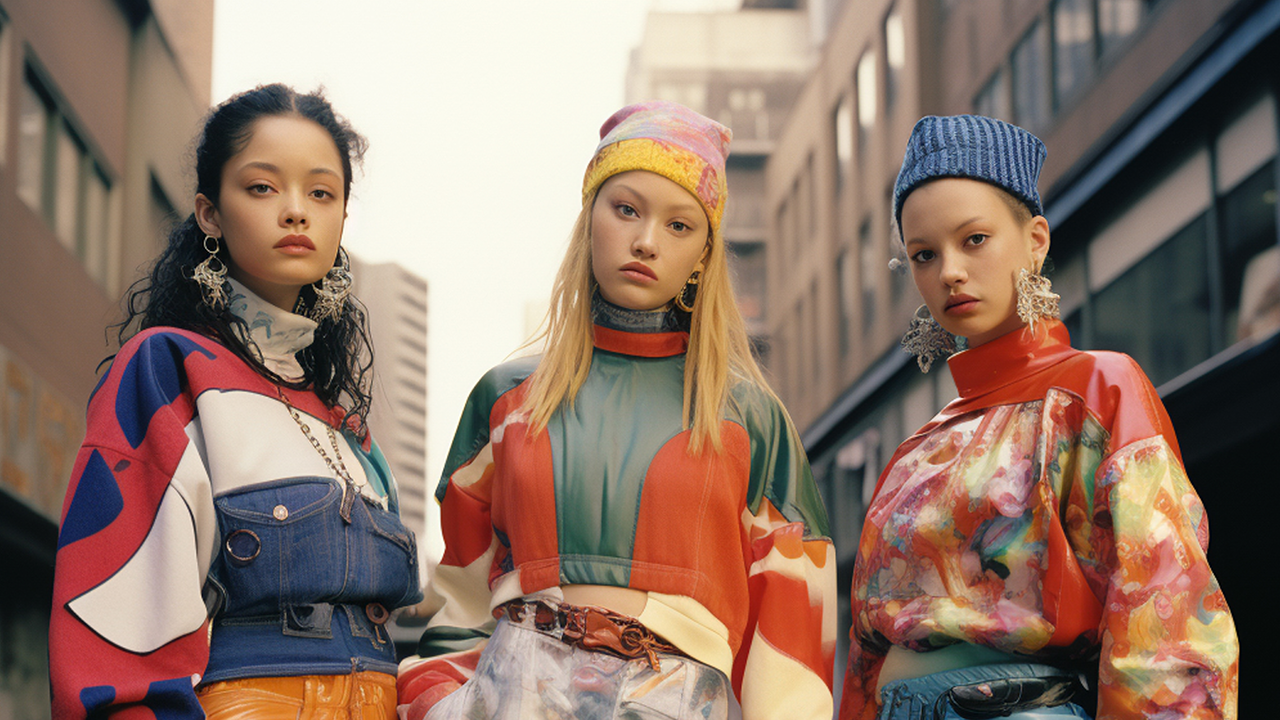
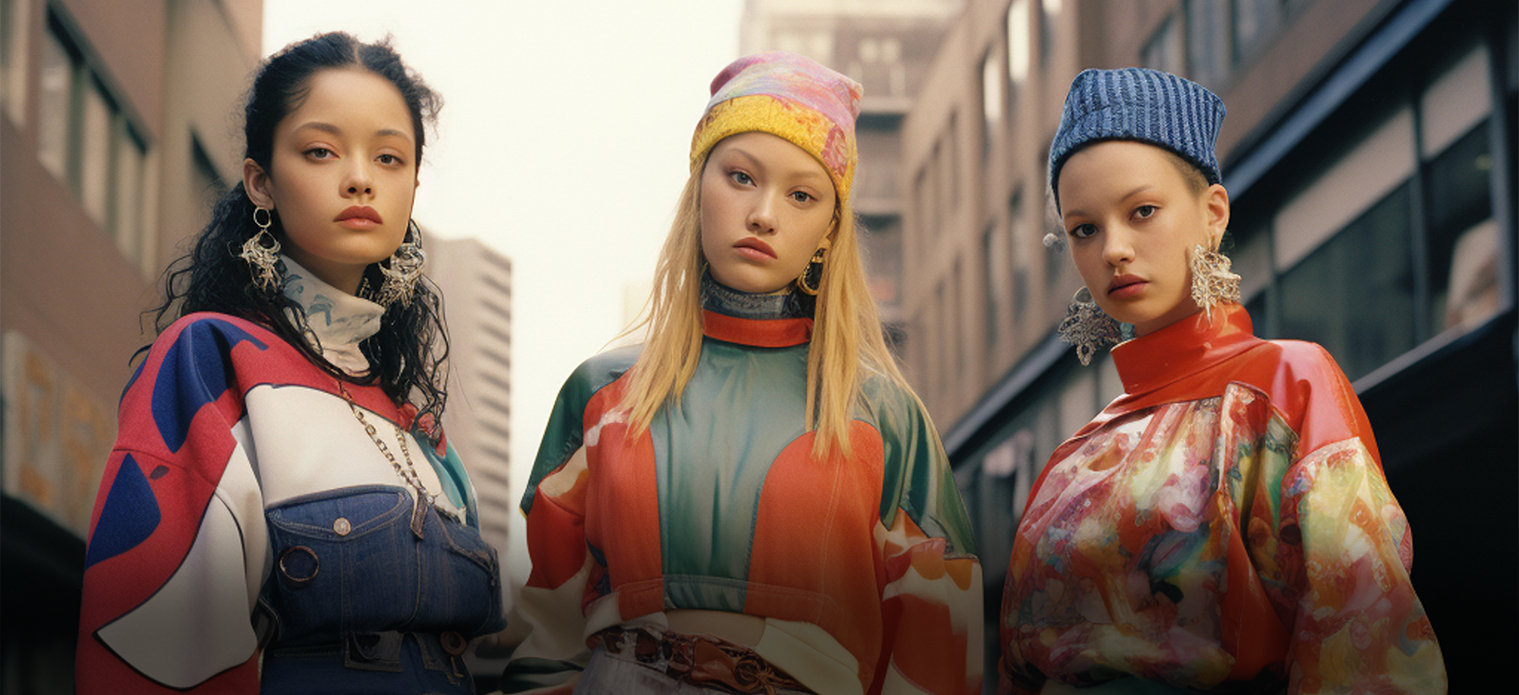
Fixed

diff --git a/src/Components/Home/Home.jsx b/src/Components/Home/Home.jsx
@@ -182,17 +182,17 @@ const Home = () => {
           Your browser does not support the video tag.
         </video> */}
         <div>
-      <img className="temp-image" src={Banner1} alt="Avant Divine" />
+      <img className="temp-image1" src={Banner1} alt="Avant Divine" />
     </div>
-        <div className="text-overlay d-none d-md-inline">
-          <h3 className="exclusive-text "> Avant Divine Couture</h3>
-          <h5 className="exclusive-text " style={{ textDecoration: "underline" }}>
+        <div className="text-overlay d-none d-md-inline exclusive-text ">
+          <h3 className=""> Avant Divine Couture</h3>
+          <h5 className=" " style={{ textDecoration: "underline" }}>
             Explore the Intersection of Urban Style & Timeless Elegance
           </h5>
         </div>
       </div>
       <div className="top-header-content">
-        <h1 className="text-center bold--text"> Discover The Modern Class</h1>
+        <h1 className="text-center modern--class "> Discover The Modern Class</h1>
         {/* <div className="p-lg-5">
           <div className="row">
             {cardData.map((card, index) => (

diff --git a/src/Components/Home/Home.css b/src/Components/Home/Home.css
@@ -34,7 +34,7 @@
 .text-overlay {
   position: absolute;
   font-family: "Futura Regular", sans-serif;
-  bottom: 20px;
+  bottom: -50px;
   left: 50%;
   transform: translateX(-50%);
   color: white;
@@ -182,6 +182,14 @@
   font-weight: bold;
   font-size: 30px;
 }
+.modern--class {
+  font-family: "Futura Regular", sans-serif;
+  letter-spacing: 0.4px;
+  font-weight: bold;
+  font-size: 30px;
+  margin-top: 18vh;
+
+}
 .bold--text1 {
   font-family: "Futura Regular", sans-serif;
   letter-spacing: 0.4px;
@@ -270,6 +278,12 @@
 .temp-image{
   height: 100vh;
   width: 100%;
+}
+.temp-image1{
+  height: 100vh;
+  width: 100%;
+  margin-top: 76px;
+
 }
 
 @media (max-width: 1024px) {
